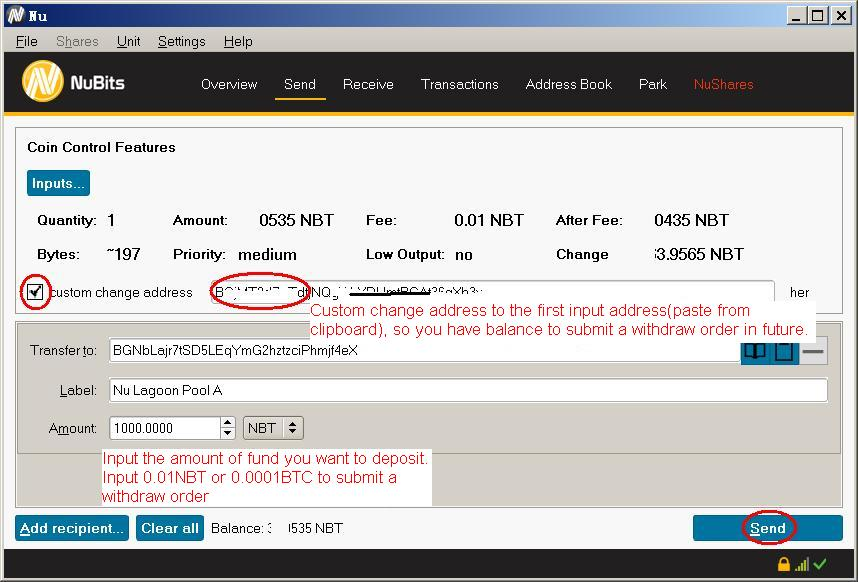
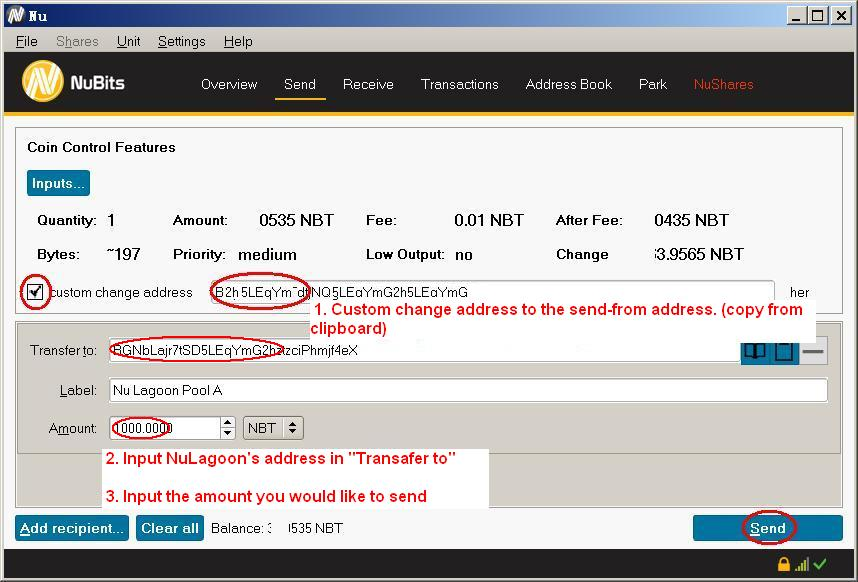
Update Guide

diff --git a/Fund Deposit and Withdraw Guide.md b/Fund Deposit and Withdraw Guide.md
@@ -1,23 +1,23 @@
+To send transactions to Nu Lagoon Tube / Pools, you need to specify the address which you would like to send from. This is a guide for anyone not familiar with it.
 
-To deposit fund or submit a withdraw order to the Nu Lagoon, you need to use the coin control feature. Here is a guide for anyone not familiar with it.
+NuLagoon recommends [Electrum ](https://electrum.org/#download) and [Nu client](https://www.nubits.com/download) to be the Bitcoin and NuBits wallet.
 
- - **Step1: Enable Coin Control**
+## Send Bitcoin in Electrum
 
-For Nubits:
+<img src="https://raw.githubusercontent.com/henrynu/NuLagoon/master/res/electrum1.JPG" width="668" height="394"> 
+
+<img src="https://raw.githubusercontent.com/henrynu/NuLagoon/master/res/electrum2.JPG" width="668" height="374"> 
+
+## Send NuBits in Nu client
+
+
+- **Step1: Enable Coin Control**
 
 <img src="https://raw.githubusercontent.com/henrynu/NuLagoon/master/res/guide1.JPG" width="690" height="131"> 
 
 <img src="https://raw.githubusercontent.com/henrynu/NuLagoon/master/res/guide2.JPG" width="480" height="307"> 
 
-For Bitcoin:
-
-<img src="https://raw.githubusercontent.com/henrynu/NuLagoon/master/res/guideA.JPG" width="690" height="112"> 
-
-<img src="https://raw.githubusercontent.com/henrynu/NuLagoon/master/res/guideB.JPG" width="601" height="432"> 
-
  - **Step2: Select Inputs**
-
-For Nubits and Bitcoin:
 
 <img src="https://raw.githubusercontent.com/henrynu/NuLagoon/master/res/guide3.JPG" width="690" height="213"> 
 
@@ -25,7 +25,7 @@ For Nubits and Bitcoin:
 
  - **Step3: Custom change address & send transaction**
 
-For Nubits and Bitcoin:
+For Nubits:
 
 <img src="https://raw.githubusercontent.com/henrynu/NuLagoon/master/res/guide5.JPG" width="690" height="468">
 
